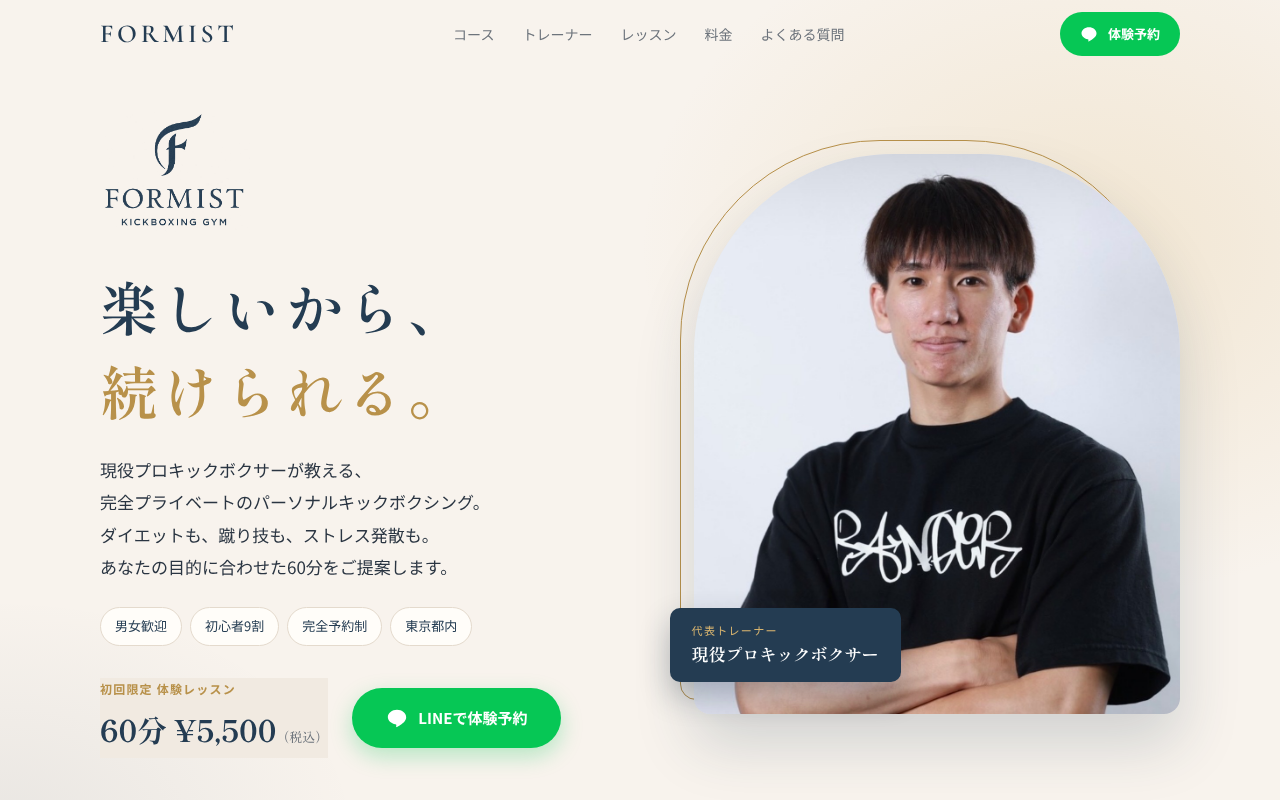
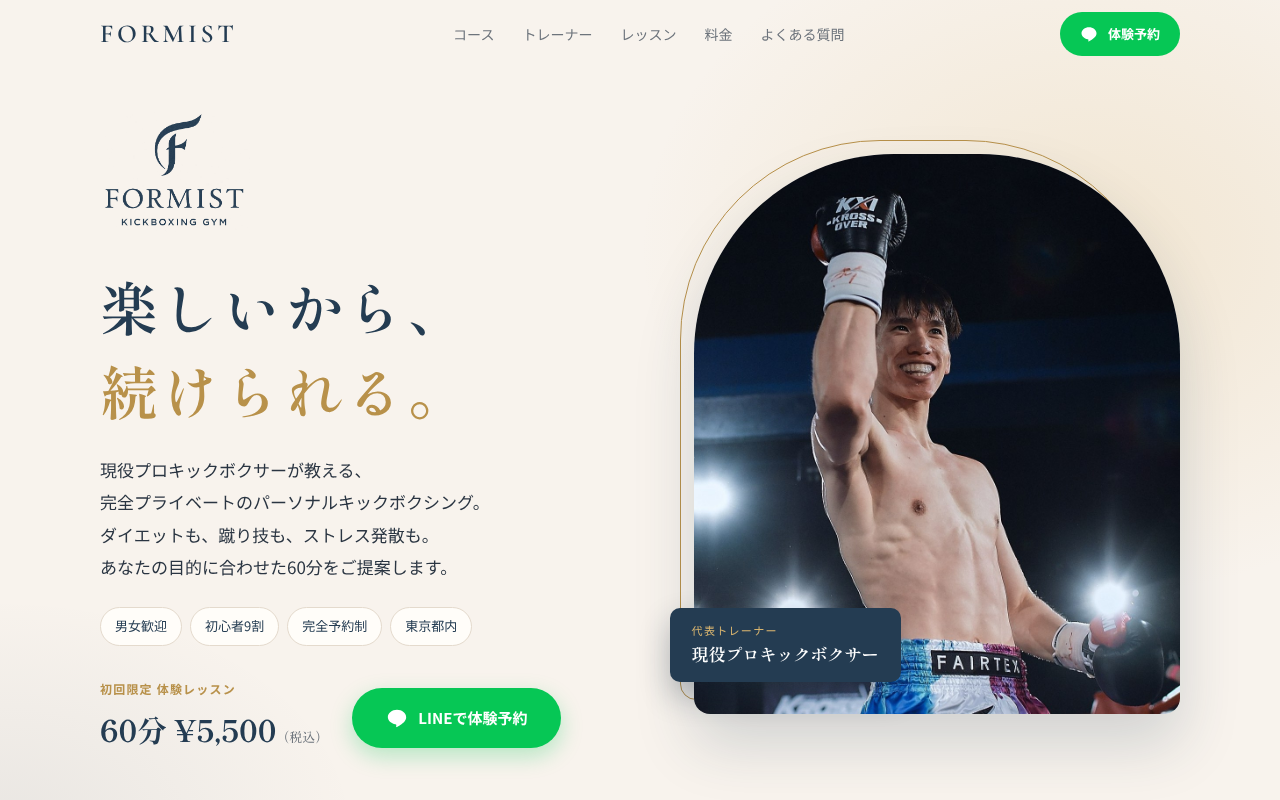
Use fight photo for hero image
Claude-Session: https://claude.ai/code/session_01TvBpKL8zKej4caDDHCEVDg

Changed region(s): [[0.5312, 0.1875, 0.9375, 0.9062]]

diff --git a/index.html b/index.html
@@ -97,7 +97,7 @@
     position: relative; border-radius: 200px 200px 16px 16px; overflow: hidden;
     aspect-ratio: 4/4.6; background: #e8e9ea; box-shadow: 0 30px 60px rgba(36,60,82,.18);
   }
-  .hero-photo img { width: 100%; height: 100%; object-fit: cover; object-position: center 20%; }
+  .hero-photo img { width: 100%; height: 100%; object-fit: cover; object-position: center top; }
   .hero-photo::before {
     content: ""; position: absolute; inset: -14px 14px 14px -14px; border: 1px solid var(--gold);
     border-radius: 200px 200px 16px 16px; z-index: -1;
@@ -328,7 +328,7 @@
         </div>
       </div>
       <div class="hero-photo">
-        <div class="frame"><img src="images/trainer.jpg" alt="FORMIST GYM 代表トレーナー 坂口風太" width="1206" height="1278"></div>
+        <div class="frame"><img src="images/hero-fight.jpg" alt="試合で勝利し拳を掲げる代表トレーナー 坂口風太" width="1108" height="1276"></div>
         <div class="hero-badge"><small>代表トレーナー</small><strong>現役プロキックボクサー</strong></div>
       </div>
     </div>
